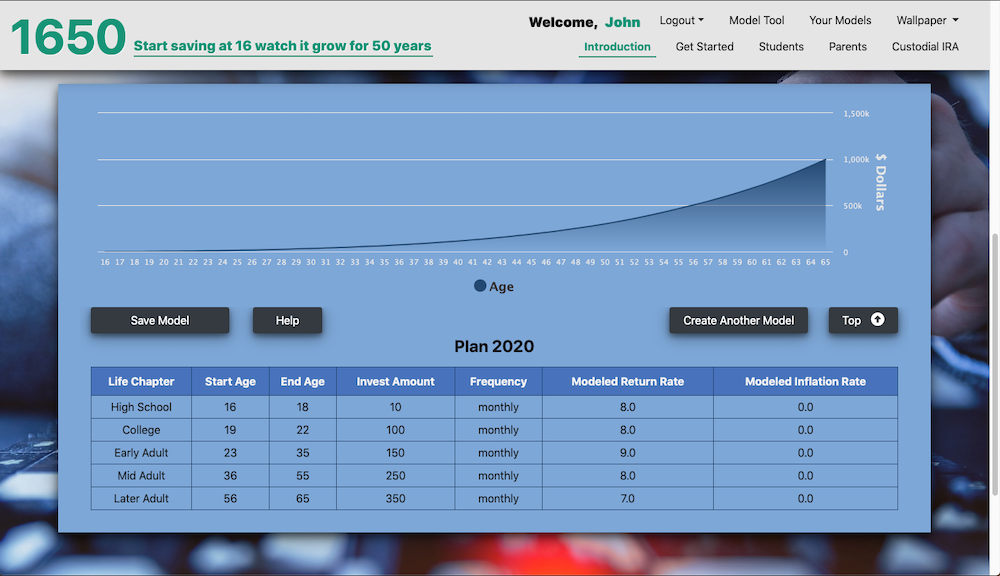
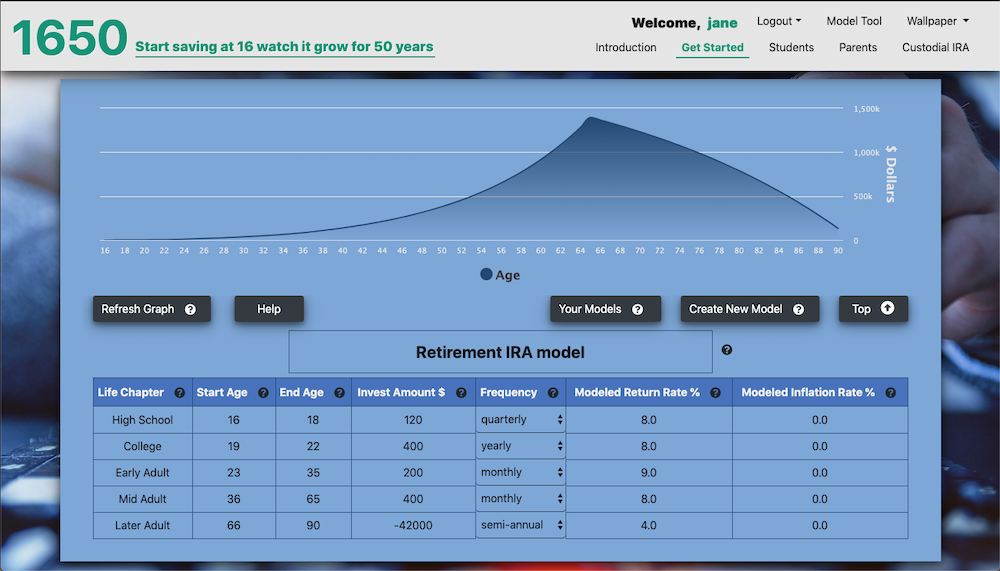
adjusted the help screen shots for new look and updated README.md

diff --git a/public/home.html b/public/home.html
@@ -126,24 +126,24 @@
                 </div>
                 <div id="slide-2-right" class="col-8 slide-right">
                   <div class="row">
-                    <div class="col-6">
+                    <div class="col-4">
                       <h1>Model Calculator</h1>
                       <hr class="brand-rule slide-1-1">
                       <ul>
-                        <li><h4 class="bullet">Use Calculator as Guest - signup & login not necessary</h4></li>
+                        <li><h4 class="bullet">Use Calculator as Guest - signup/login not necessary</h4></li>
                         <li><h4 class="bullet">Graph shows years and dollars</h4></li>
-                        <li><h4 class="bullet">Grid values you can change and re-run the graph to see "what if"</h4></li>
-                        <li><h4 class="bullet">Model name, year range names, years, investment amounts & modeled return percent are changeable</h4></li>
-                        <li><h4 class="bullet">Click into a box to change value</h4></li>
+                        <li><h4 class="bullet">Change grid fields by clicking them - Refresh Graph to see "what if"</h4></li>
+                        <!-- <li><h4 class="bullet">Click into a box to change value</h4></li> -->
+                        <li><h4 class="bullet">Click ? for field/button tips/help"</h4></li>
                        </ul>
                     </div>
-                    <div class="col-6">
-                        <img id="model-img" src="assets/img/how-to-model-s.png" alt="financial IRA graph">
+                    <div class="col-8">
+                        <img id="model-img" src="assets/img/how-to-model-s2.png" alt="financial IRA graph">
                         <ul>
                           <li><h4 class="bullet">Models can be saved and re-opened at a later time if you create a login</h4></li>
-                          <li><h4 class="bullet">Login to rename or create new model</h4></li>
+                          <!-- <li><h4 class="bullet">Signup/Login allows models to be saved for later use</h4></li> -->
                           <li><h4 class="bullet">Find more calculator tips <a class="slide-nav" data-target="#carousel-example-2" data-slide-to="2" href="#">here</a></h4></li>
-                          <li><h4 class="bullet">Simply scroll down to see calculator</li>
+                          <li><h4 class="bullet">To see calculator scroll down or click Model Tool button/link</li>
                         </ul>
                     </div>
                   </div>
@@ -299,7 +299,7 @@
               class="btn-help-tip-icon fas fa-question-circle btn" title="Your Models"
               data-placement="left"
               data-content="Opens list of your saved models. Click into model name to re-open it. Once opened, click into the name 
-              above model grid if you want to rename model.  You can also delete models from the list presented.">
+              above model grid if you want to rename model.  You can also delete models from your model list.">
             </i> 
           </button>
 
@@ -343,7 +343,8 @@
                   data-placement="left"
                   data-content="The inventment amount is the dollar amount you intend to invest each frequency period for each year.  For example enter 20 
                   to model a $20 investment each period.  To change the amount click into the grid cell and type.  
-                  The period is set in the next column and can be monthly, quarterly, semi-annual or yearly.">
+                  Use a negative number to represent a withdrawl such as spending the balance during retirement.
+                  For example, -5000 monthly in the last chapter where you set the start/end years to 67 and 90.">
                 </i> 
               </th>
               <th>Frequency
@@ -359,7 +360,7 @@
                   class="help-tip-icon fas fa-question-circle btn" title="Modeled Return Rate" 
                   data-placement="left"
                   data-content="This is the annual return percentage that you want the model to apply. 
-                   For example use 8.0 for historic stock market average return.
+                   For example use between 8.0 to 10.0 for historic stock market average return.
                    You can enter negative numbers to model an extended bear market (recession or depression).">
                 </i>  
               </th>
@@ -371,7 +372,7 @@
                   future dollars without regard to inflation.  Inflation represents the higher cost of goods
                   and services in the future making the dollars buy less than they do today.  
                   You can enter an annual inflation rate, for example 3.0, to
-                  have the model show the future dollar's purchasing power.">
+                  have the model show the future dollar's purchasing power adjusted for inflation.">
                 </i> 
               </th> 
             </tr>

diff --git a/README.md b/README.md
@@ -143,7 +143,8 @@ mylescarey2019@gmail.com
 button (manual scroll still available), increased nav bar visibilty of logged in user, login/signup triggers modal reminder to create or load model and auto-scrolls to model section on close, guest model is now cleared from page on login/signup, clarity on model button: (guests refresh the model/graph),logged in users save the model which also refreshs graph)
 - 1.6 Sprint 6 release 2-8-2020 - added investment frequency options for annual, semi-annual and quarterly 
 - 1.7 Sprint 7 release 2-10-2020 - added option to set an inflation rate modifier
-- 1.8 Planned sprint scheduled for February/2020 - revised help information via modal 
+- 1.8 Sprint 8 release 2-23-2020 - added help tip popups to buttons and grid field headers
+- 1.9 Next sprint content & schedule TBD
 
 ## License
 
